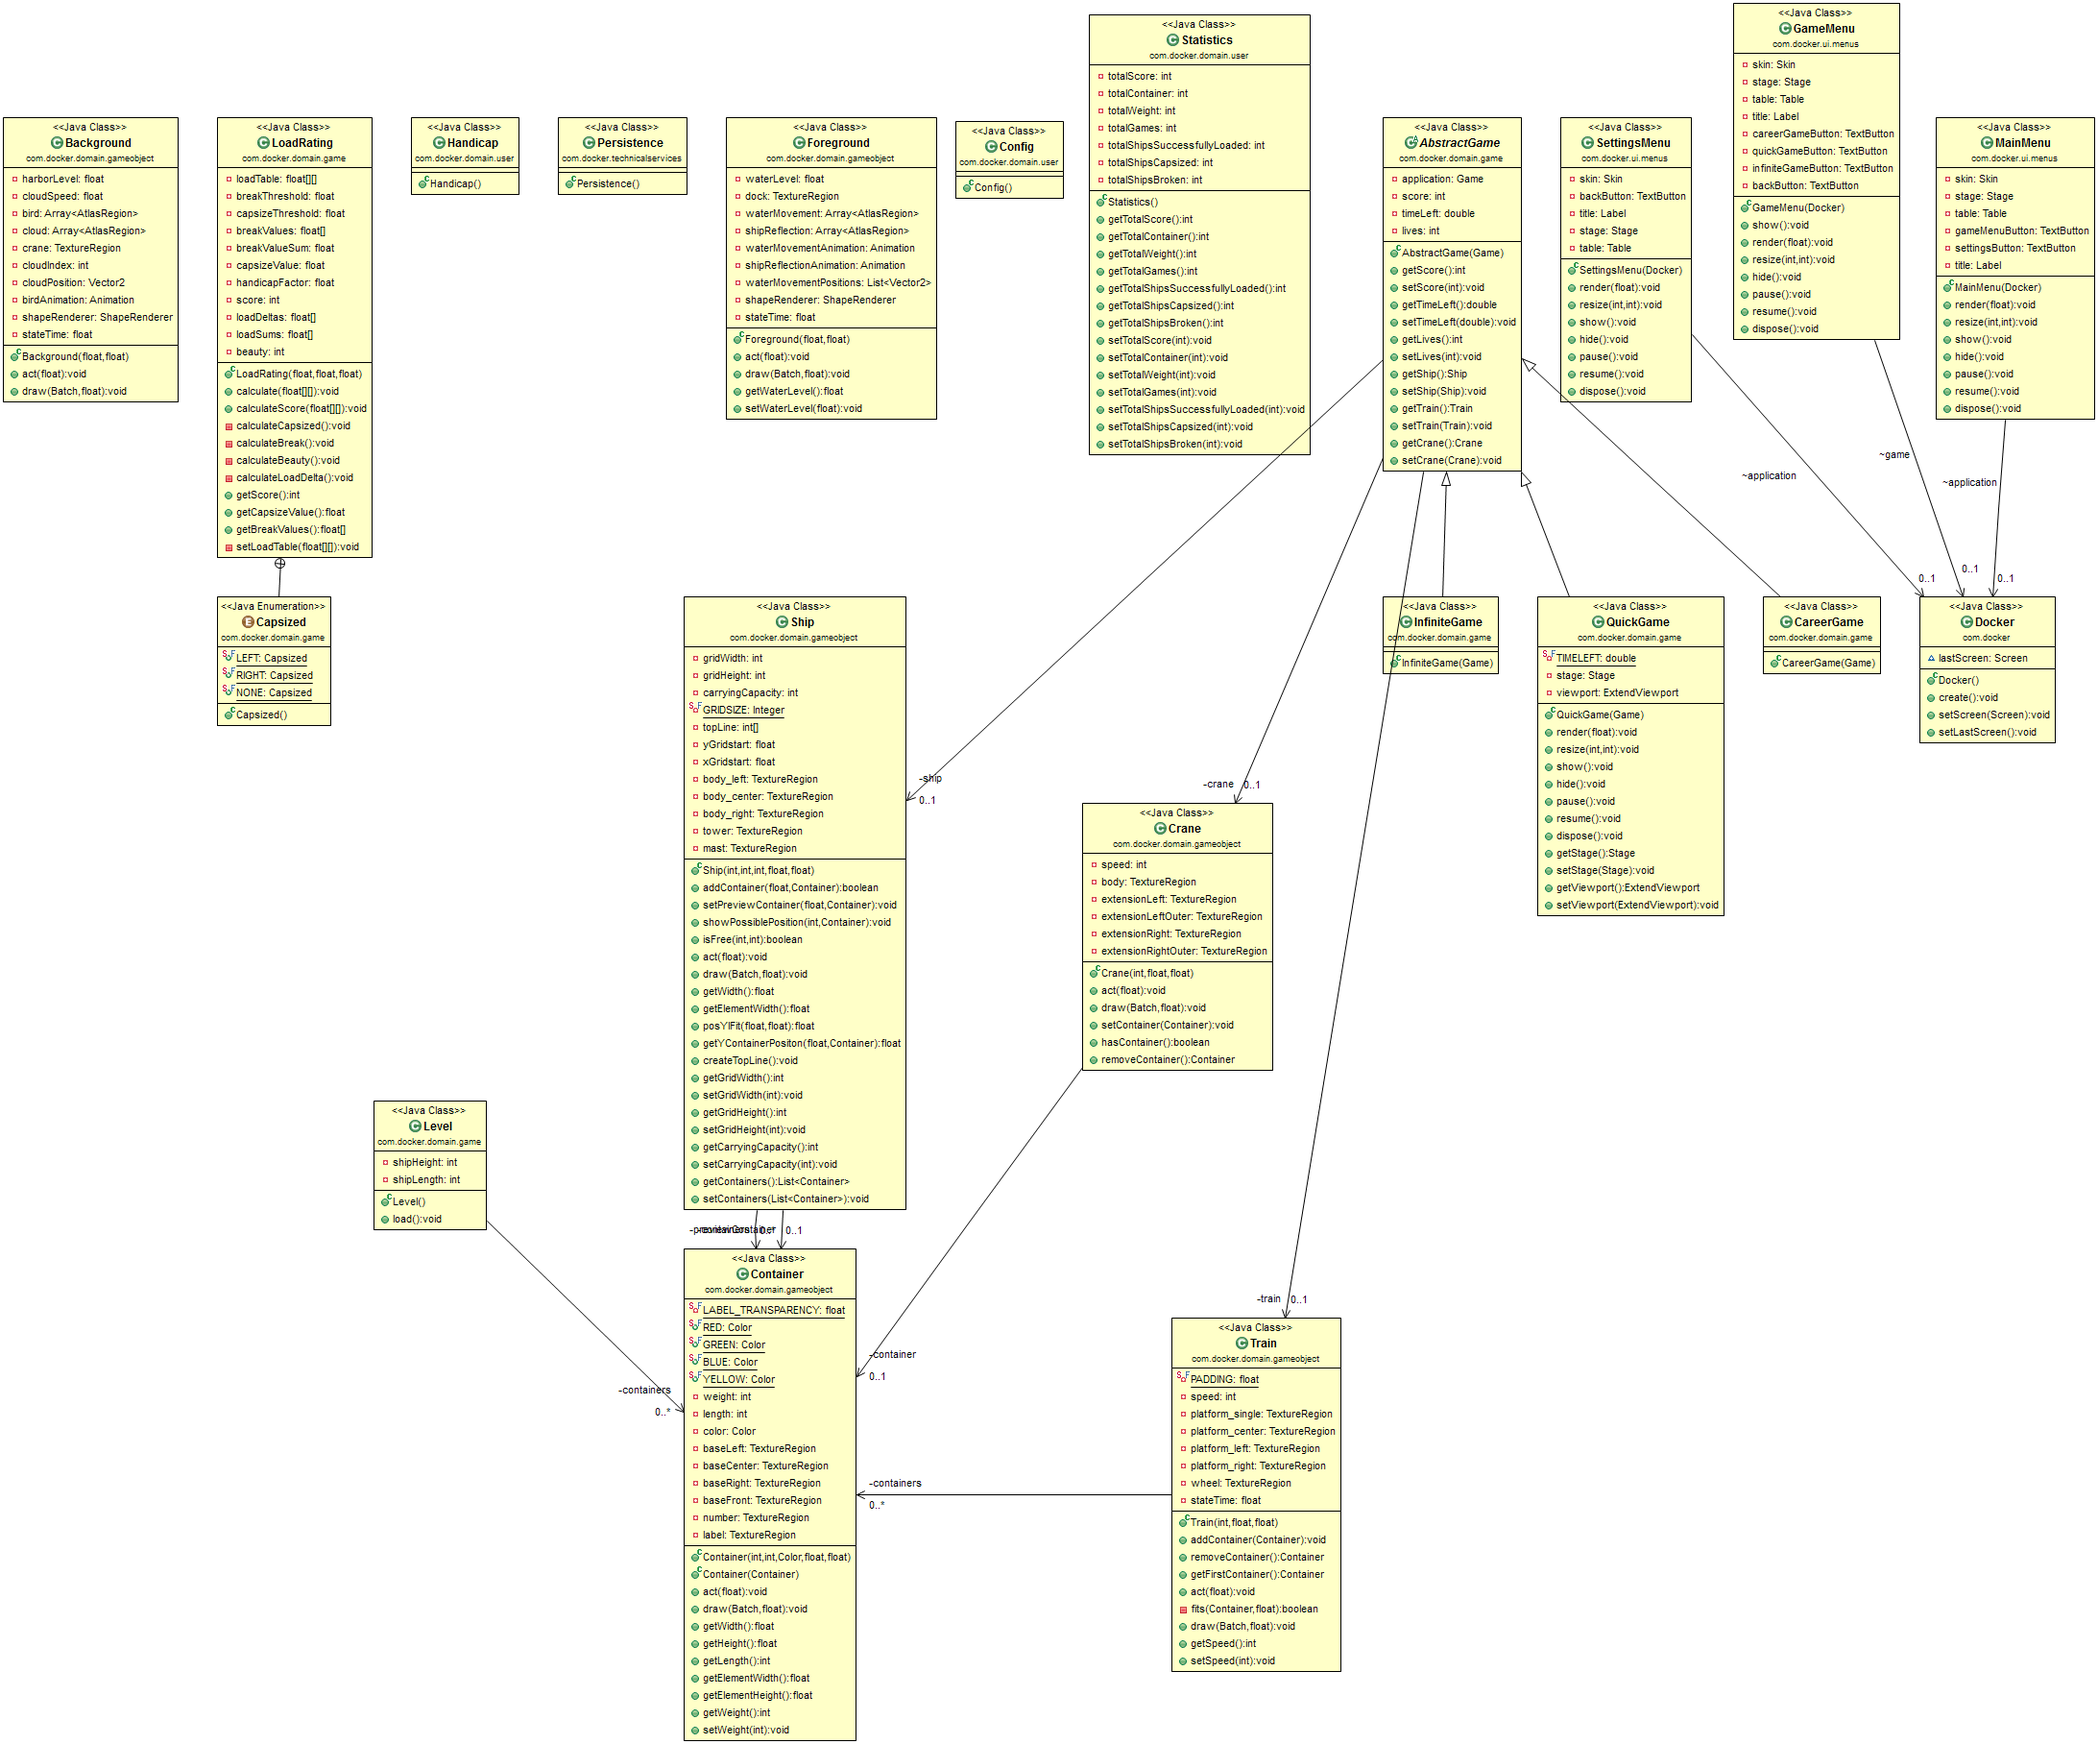
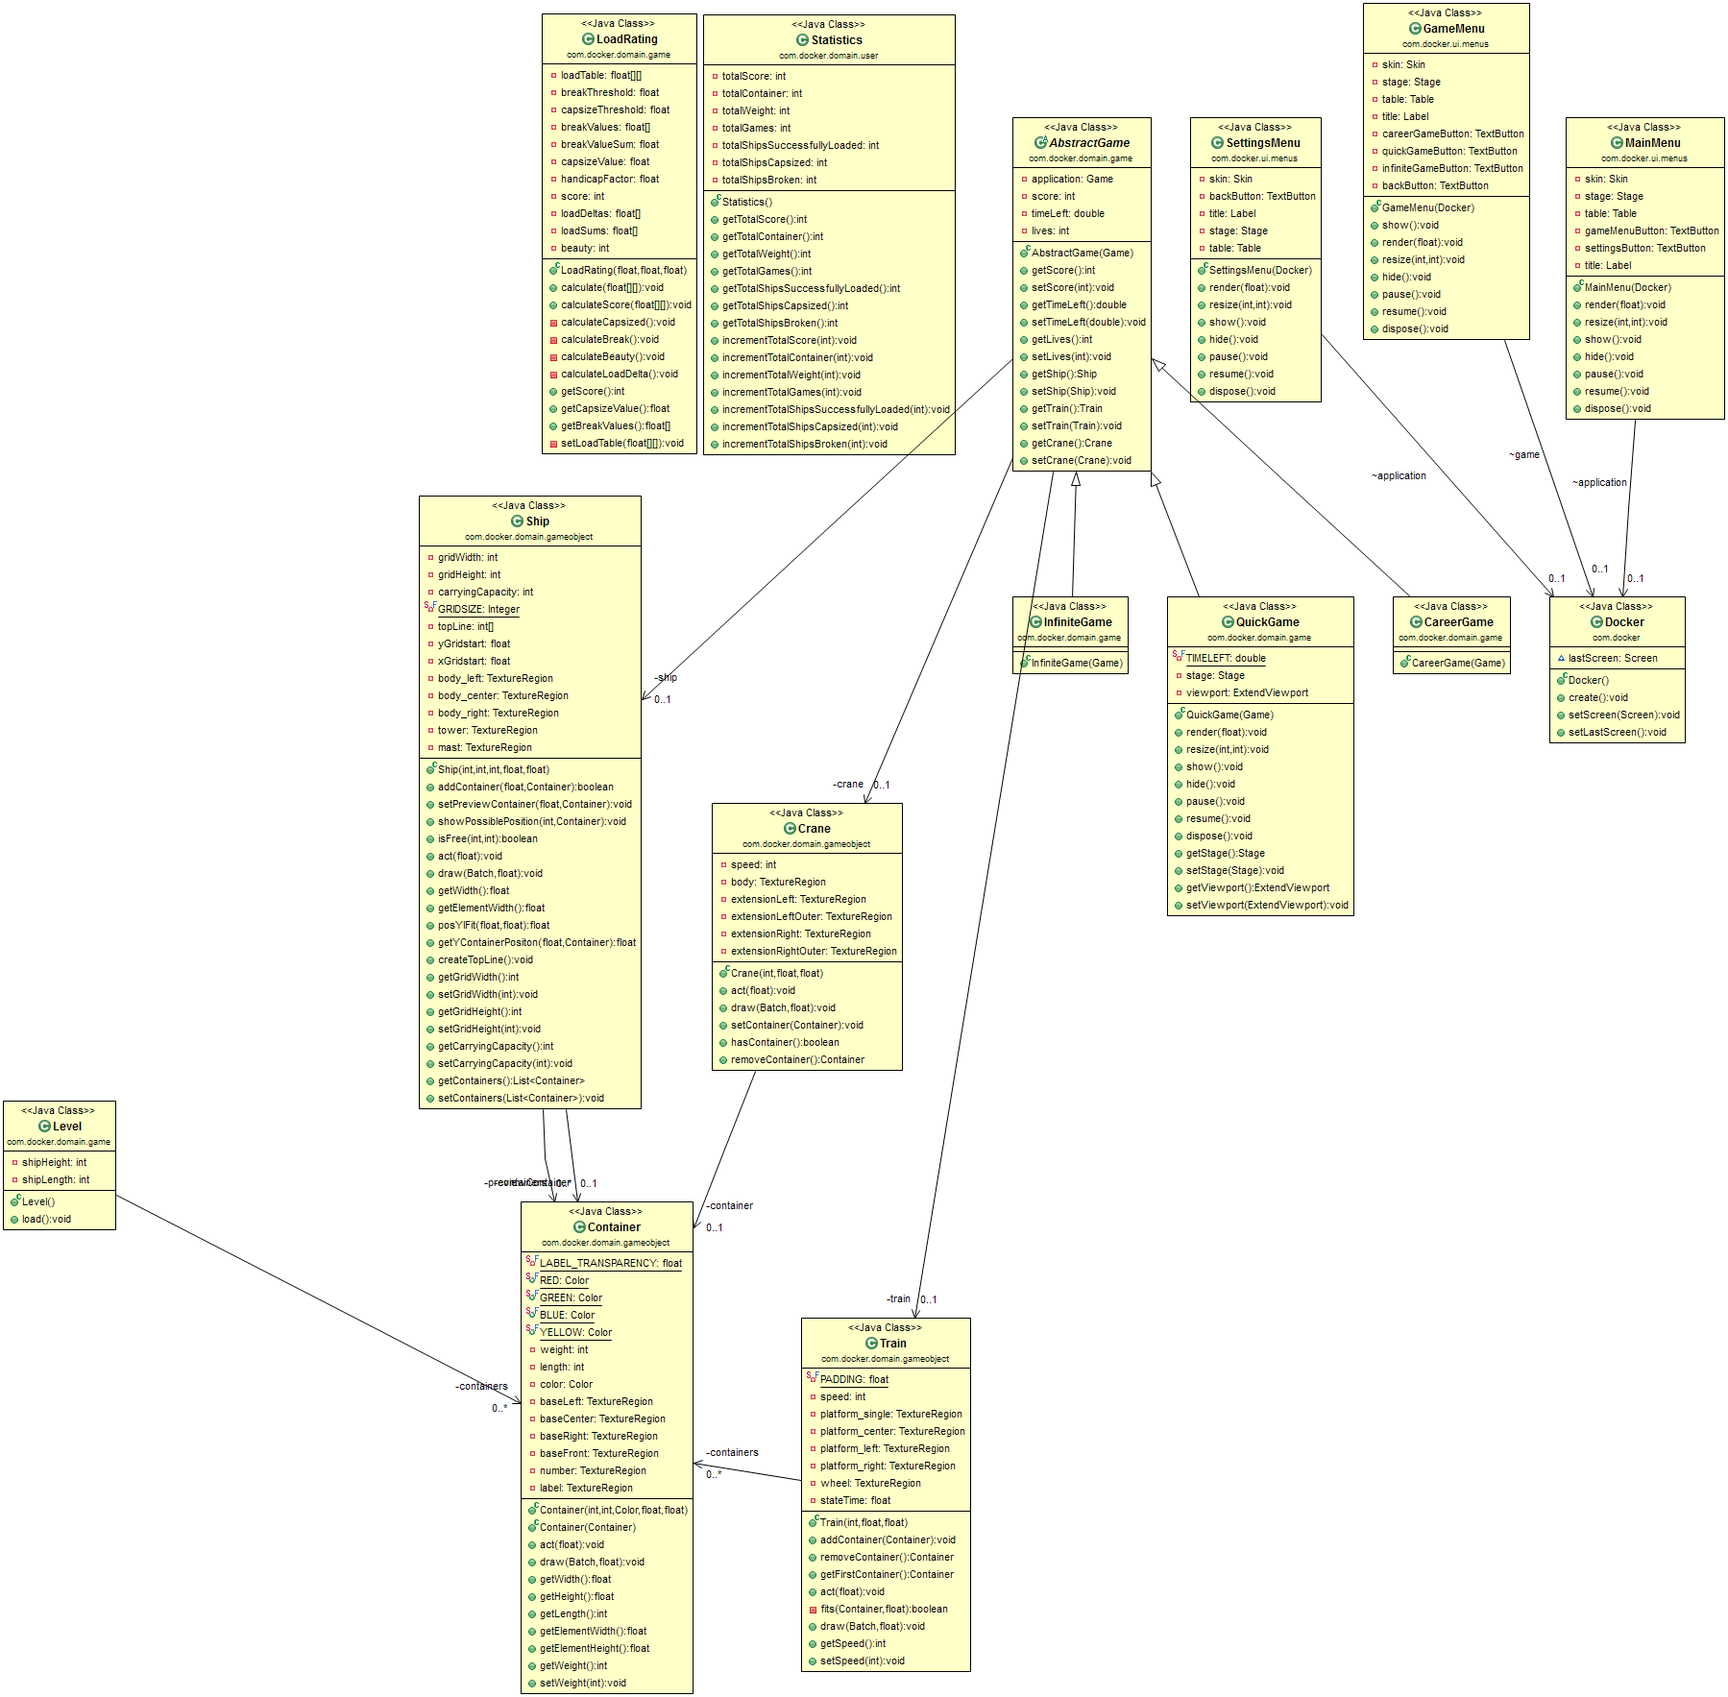
Multiple improvements
additional constructor for container (random Color)
refactoring setter classes in statistics

diff --git a/Source/Docker/core/src/com/docker/domain/user/Statistics.java b/Source/Docker/core/src/com/docker/domain/user/Statistics.java
@@ -9,6 +9,7 @@ public class Statistics {
 	private int totalShipsCapsized;
 	private int totalShipsBroken;
 	
+	//wie wird die Statistik persistent abgelegt und wieder geladen?
 	public Statistics(){
 		this.totalScore = 0;
 		this.totalContainer = 0;
@@ -40,25 +41,25 @@ public class Statistics {
 	public int getTotalShipsBroken() {
 		return totalShipsBroken;
 	}
-	public void setTotalScore(int totalScore) {
+	public void incrementTotalScore(int totalScore) {
 		this.totalScore += totalScore;
 	}
-	public void setTotalContainer(int totalContainer) {
+	public void incrementTotalContainer(int totalContainer) {
 		this.totalContainer += totalContainer;
 	}
-	public void setTotalWeight(int totalWeight) {
+	public void incrementTotalWeight(int totalWeight) {
 		this.totalWeight += totalWeight;
 	}
-	public void setTotalGames(int totalGames) {
+	public void incrementTotalGames(int totalGames) {
 		this.totalGames += totalGames;
 	}
-	public void setTotalShipsSuccessfullyLoaded(int totalShipsSuccessfullyLoaded) {
+	public void incrementTotalShipsSuccessfullyLoaded(int totalShipsSuccessfullyLoaded) {
 		this.totalShipsSuccessfullyLoaded += totalShipsSuccessfullyLoaded;
 	}
-	public void setTotalShipsCapsized(int totalShipsCapsized) {
+	public void incrementTotalShipsCapsized(int totalShipsCapsized) {
 		this.totalShipsCapsized += totalShipsCapsized;
 	}
-	public void setTotalShipsBroken(int totalShipsBroken) {
+	public void incrementTotalShipsBroken(int totalShipsBroken) {
 		this.totalShipsBroken += totalShipsBroken;
 	}
 }

diff --git a/Source/Docker/core/src/com/docker/domain/gameobject/Container.java b/Source/Docker/core/src/com/docker/domain/gameobject/Container.java
@@ -57,6 +57,11 @@ public class Container extends Actor {
 
 		this.setBounds(this.getX(), this.getY(), this.getWidth(), this.getHeight());
 	}
+	
+	public Container(int weight, int length, float x, float y){
+		this(weight, length, RED, x, y);
+		this.setRandomColor();
+	}
 
 
 
@@ -129,5 +134,24 @@ public class Container extends Actor {
 
 	public void setWeight(int weight) {
 		this.weight = weight;
+	}
+	
+	private void setRandomColor() {
+		int randomColorNr = (int)Math.random()*4;
+		Color randomColor;
+		switch (randomColorNr) {
+		case 0:
+			randomColor = RED;
+			break;
+		case 1:
+			randomColor = GREEN;
+			break;
+		case 2:
+			randomColor = BLUE;
+		default:
+			randomColor = YELLOW;
+			break;
+		}
+		this.color = randomColor;
 	}
 }
